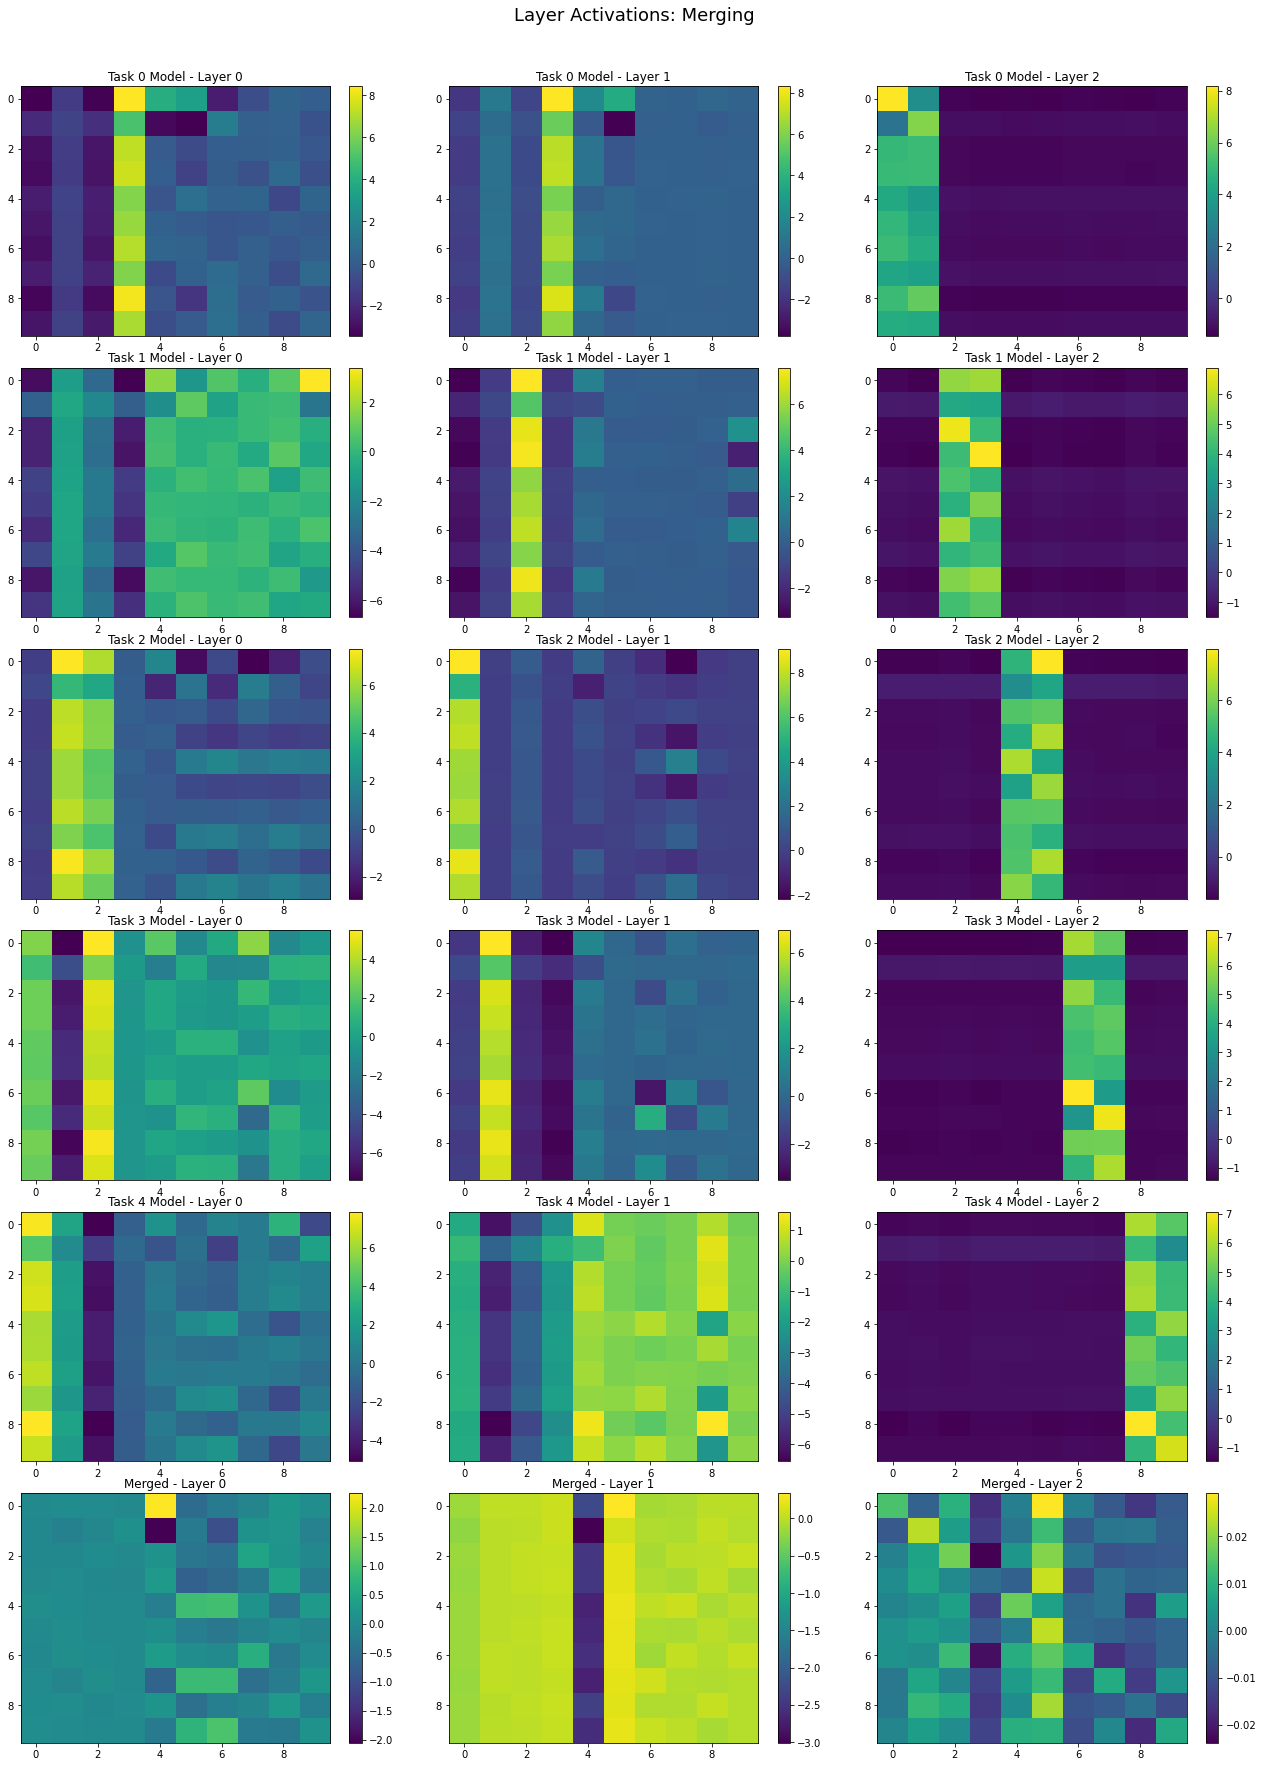
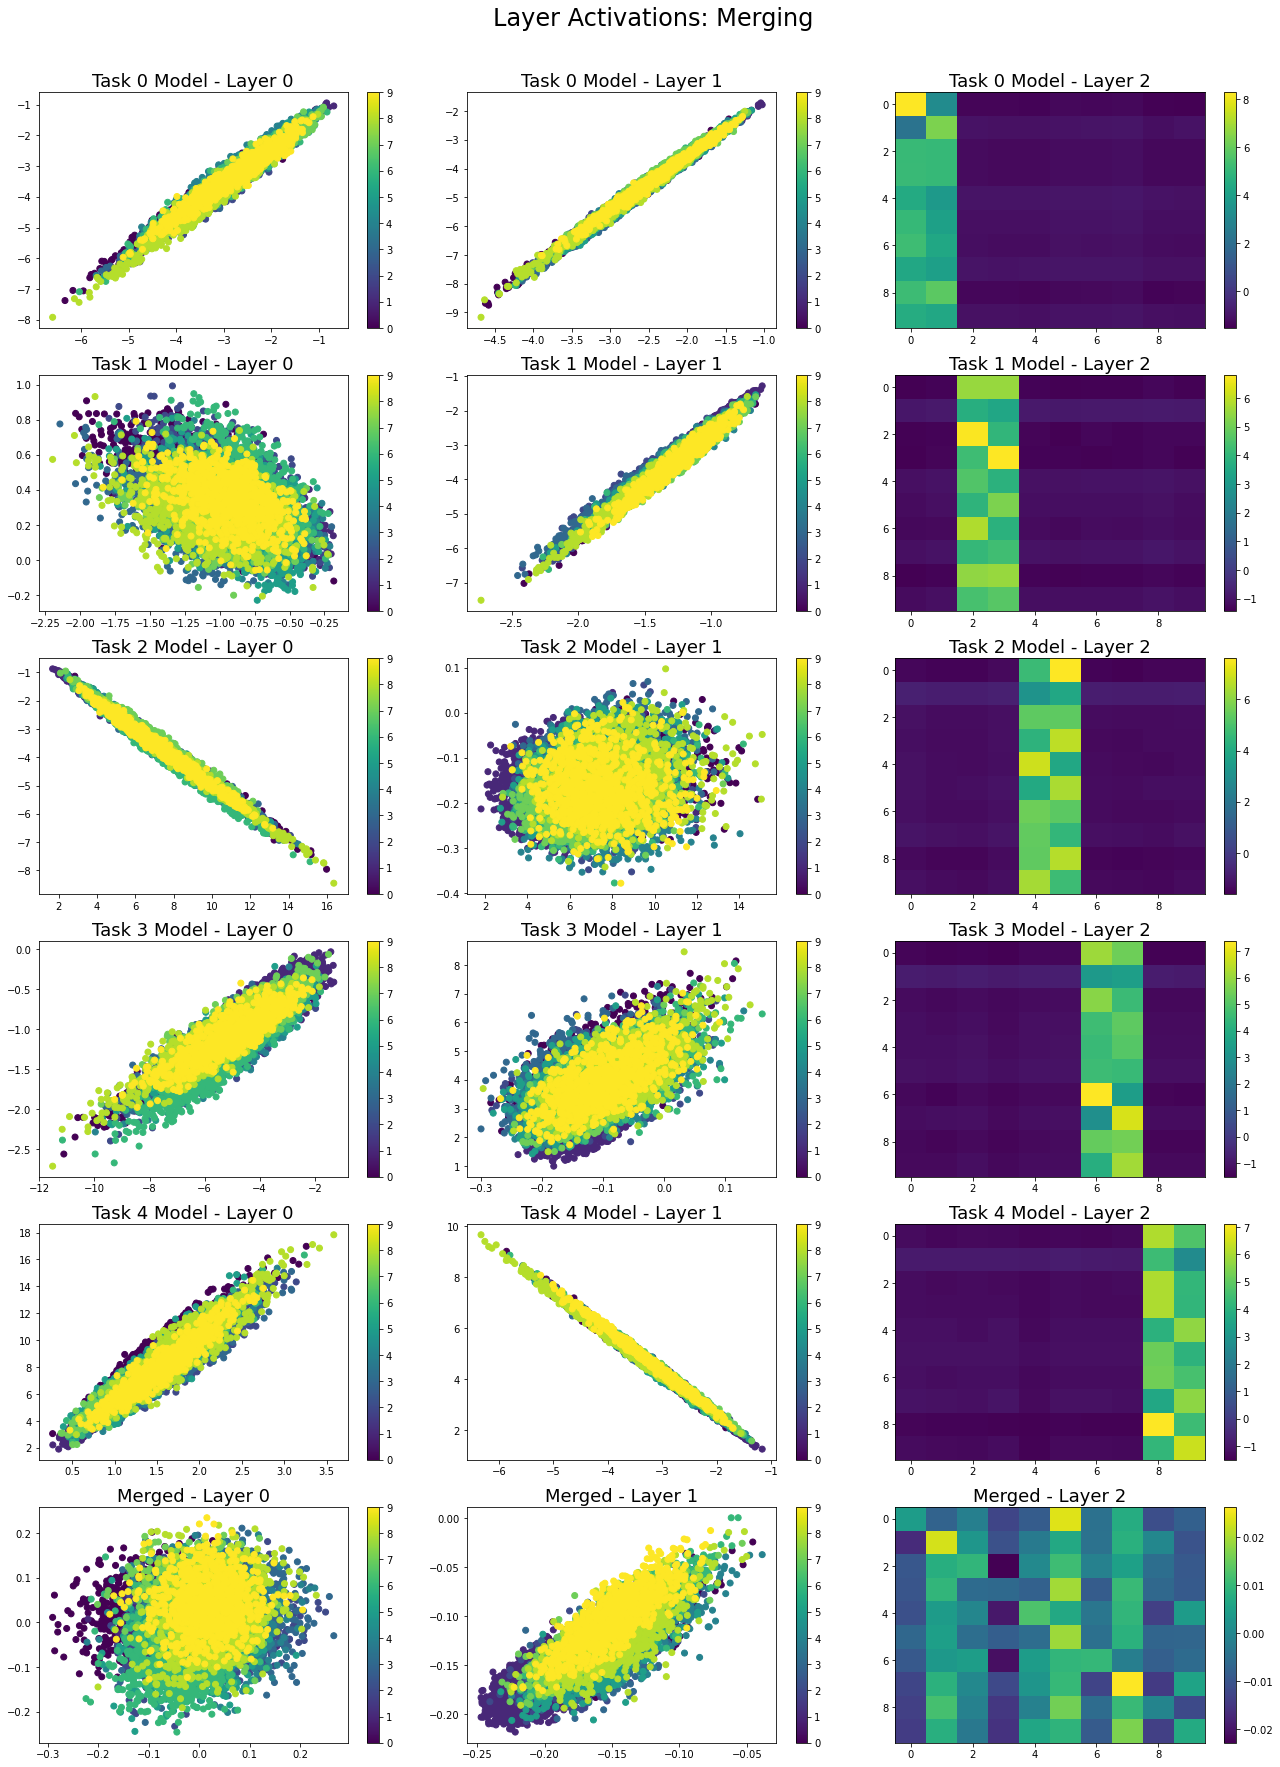
try scatter visualization for hidden state, try t-SNE instead of PCA

diff --git a/utils/nn.py b/utils/nn.py
@@ -4,6 +4,7 @@ import torch.optim as optim
 import numpy as np
 from torch.utils.data import DataLoader, TensorDataset
 from sklearn.decomposition import PCA
+from sklearn.manifold import TSNE
 import matplotlib.pyplot as plt
 
 device = torch.device("cuda" if torch.cuda.is_available() else "cpu")
@@ -156,12 +157,12 @@ class NeuronDeveloper():
         self.activations[subtitle] = [post - pre for post, pre in zip(self.activations[post_subtitle], self.activations[pre_subtitle])]
         return self.activations[subtitle]
 
-    def reduce(self, pca_components=None):
+    def reduce(self, reduction_method='tsne', components=[None, None, None]):
         # Get the number of layers from the first entry in activations
         num_layers = len(next(iter(self.activations.values())))
 
-        # Precompute PCA models for each layer except the last one
-        pca_models = [None] * num_layers
+        # Precompute models for each layer except the last one
+        reduction_models = [None] * num_layers
 
         # Pre-fetch all the activations for improved loop performance
         activations_values = {subtitle: [a.to(self.device) for a in activations] for subtitle, activations in self.activations.items()}
@@ -170,44 +171,44 @@ class NeuronDeveloper():
             # Concatenate activations across all subtitles for layer i
             layer_activations = [activation[i].cpu().numpy() for activation in activations_values.values()]
 
-            # Combine activations into a single array for PCA
+            # Combine activations into a single array for dimensionality reduction
             concat_activations = np.concatenate(layer_activations, axis=0)
 
-            if i == num_layers - 1:
-                # Skip PCA for the output layer (last layer)
-                for subtitle, activation in self.activations.items():
-                    if self.reduced_activations.get(subtitle) is None:
-                        self.reduced_activations[subtitle] = []
-
-                    # Append the original activation for the output layer
-                    self.reduced_activations[subtitle].append(activation[i].cpu().numpy())
-            else:
-                # Fit PCA model for this layer if pca_components is specified
-                if pca_components:
-                    if pca_models[i] is None:
-                        pca_models[i] = PCA(n_components=pca_components)
-                        pca_models[i].fit(concat_activations)
+            if components[i]:  # Only reduce if components are specified
+                if reduction_models[i] is None:
+                    if reduction_method == 'pca':
+                        reduction_models[i] = PCA(n_components=components[i])
+                        reduction_models[i].fit(concat_activations)
+                    elif reduction_method == 'tsne':
+                        # Note: t-SNE does not require a fit step, so we do fit_transform directly
+                        reduction_models[i] = TSNE(n_components=components[i], random_state=42)
+                        concat_activations = reduction_models[i].fit_transform(concat_activations)  # Apply t-SNE to the concatenated activations
                 
-                # Transform the activations for each subtitle
-                for subtitle, activation in self.activations.items():
-                    if self.reduced_activations.get(subtitle) is None:
-                        self.reduced_activations[subtitle] = []
+            # Transform the activations for each subtitle
+            for subtitle, activation in self.activations.items():
+                if self.reduced_activations.get(subtitle) is None:
+                    self.reduced_activations[subtitle] = []
 
-                    layer_activation = activation[i].cpu().numpy()
+                layer_activation = activation[i].cpu().numpy()
 
-                    if pca_components:
-                        # Apply PCA transformation if components are specified
-                        reduced_activation = pca_models[i].transform(layer_activation)
-                    else:
-                        # Otherwise, just append the original activation (no PCA)
-                        reduced_activation = layer_activation
+                if components[i]:
+                    if reduction_method == 'pca':
+                        reduced_activation = reduction_models[i].transform(layer_activation)
+                    elif reduction_method == 'tsne':
+                        # For t-SNE, the transformation happens on the full dataset, so you cannot apply it like PCA
+                        # Instead, the `concat_activations` are already reduced, so we split them back
+                        reduced_activation = concat_activations[:len(layer_activation)]
+                        concat_activations = concat_activations[len(layer_activation):]  # Update remaining activations
+                else:
+                    reduced_activation = layer_activation  # No dimensionality reduction
 
-                    # Append the reduced activation for the current layer
-                    self.reduced_activations[subtitle].append(reduced_activation)
+                # Append the reduced activation for the current layer
+                self.reduced_activations[subtitle].append(reduced_activation)
 
         return self.reduced_activations
+
     
-    def show(self, mean_pooling=False):
+    def render(self, plot_types: list = ['heatmap', 'heatmap', 'heatmap'], pooling_types=['mean', 'mean', 'mean']):
         num_layers = len(self.activations[list(self.activations.keys())[0]])
 
         fig, axs = plt.subplots(len(self.reduced_activations.keys()), 
@@ -215,30 +216,55 @@ class NeuronDeveloper():
                                 figsize=(num_layers * 6, 
                                          len(self.reduced_activations.keys()) * 4 + 1))
         
-        fig.suptitle(self.title, fontsize=18)
+        fig.suptitle(self.title, fontsize=24)
         fig.tight_layout(rect=[0, 0, 1, 0.96])
 
         for i in range(num_layers):
             if len(self.reduced_activations.keys()) == 1:
-                if mean_pooling:
-                    data = self.reduced_activations[list(self.reduced_activations.keys())[0]][i]
-                    pooled_data = data.reshape(10, 1000, 10).mean(axis=1)
+                # Do pooling if mean_pooling is True
+                data = self.reduced_activations[list(self.reduced_activations.keys())[0]][i]
+                pca_components = data.shape[1]
+                if pooling_types[i] == 'mean':
+                    pooled_data = data.reshape(-1, 1000, pca_components).mean(axis=1)
+                elif pooling_types[i] == 'none':
+                    pooled_data = data
+                
+                # Plot the figure according to the plot_types[i]
+                if plot_types[i] == 'heatmap':
                     im = axs[i].imshow(pooled_data, aspect='auto')
-                else:
-                    im = axs[i].imshow(self.reduced_activations[list(self.reduced_activations.keys())[0]][i], aspect='auto')
-                axs[i].set_title(list(self.reduced_activations.keys())[0] + f' - Layer {i}', fontsize=12)
+                elif plot_types[i] == 'scatter':
+                    if pca_components and pca_components != 2:
+                        print("Warning: pca_components is not 2. Scatter plot may not work as expected.")
+                    colors = np.repeat(np.arange(pooled_data.shape[0] // 1000), 1000)
+                    im = axs[i].scatter(pooled_data[:, 0], pooled_data[:, 1], c=colors, cmap='viridis')
+
+                axs[i].set_title(list(self.reduced_activations.keys())[0] + f' - Layer {i}', fontsize=18)
                 fig.colorbar(im, ax=axs[i])
             else:
                 for j, sub_title in enumerate(self.reduced_activations.keys()):
-                    if mean_pooling:
-                        data = self.reduced_activations[sub_title][i]
-                        pooled_data = data.reshape(10, 1000, 10).mean(axis=1)
+                    # Do pooling if mean_pooling is True
+                    data = self.reduced_activations[sub_title][i]
+                    pca_components = data.shape[1]
+                    if pooling_types[i] == 'mean':
+                        pooled_data = data.reshape(-1, 1000, pca_components).mean(axis=1)
+                    elif pooling_types[i] == 'none':
+                        pooled_data = data
+
+                    # Plot the figure according to the plot_types[i]
+                    if plot_types[i] == 'heatmap':
                         im = axs[j, i].imshow(pooled_data, aspect='auto')
-                    else:
-                        im = axs[j, i].imshow(self.reduced_activations[sub_title][i], aspect='auto')
-                    axs[j, i].set_title(sub_title + f' - Layer {i}', fontsize=12)
+                    elif plot_types[i] == 'scatter':
+                        if pca_components and pca_components != 2:
+                            print("Warning: pca_components is not 2. Scatter plot may not work as expected.")
+                        colors = np.repeat(np.arange(pooled_data.shape[0] // 1000), 1000)
+                        im = axs[j, i].scatter(pooled_data[:, 0], pooled_data[:, 1], c=colors, cmap='viridis')
+
+                    axs[j, i].set_title(sub_title + f' - Layer {i}', fontsize=18)
                     fig.colorbar(im, ax=axs[j, i])
 
+        # Adjust spacing between rows
+        plt.subplots_adjust(hspace=0.2)
+        
         self.fig = fig
 
     def save(self):

diff --git a/mnist_exp.py b/mnist_exp.py
@@ -197,12 +197,17 @@ def run_sleep_exp(acc_df: list, sleep_opts_update={}):
 
     acc_df = log_accuracy(f'SRC', 'Initial', acc_df, src_model, test_x, test_y, test_tasks, sleep_opts)
 
+
+    # # [Visual] Initialize the NeuronDeveloper for layer visualization
+    # neuron_developer = NeuronDeveloper(title=f'Layer Activations for Each Tasks: Before, After SRC, Synthetic, and Difference',
+    #                                     output_path=f'./png/layer_activations_src.png')
+    
     for task_id in range(num_tasks):
         print(f'Task {task_id}')
 
         # [Visual] Initialize the NeuronDeveloper for layer visualization
-        neuron_developer = NeuronDeveloper(title=f'Layer Activations for Task {task_id}: Before, After SRC, and Difference',
-                                           output_path=f'./png/layer_activations_task_{task_id}_before_after_src.png')
+        neuron_developer = NeuronDeveloper(title=f'Layer Activations for Task {task_id}: Before, After SRC, Synthetic, and Difference',
+                                            output_path=f'./png/layer_activations_task_{task_id}_src.png')
 
         task_indices = np.where(train_tasks == task_id)[0]
         task_train_x = train_x[task_indices[:5000]]  # Use the first 5000 samples for each task
@@ -214,7 +219,7 @@ def run_sleep_exp(acc_df: list, sleep_opts_update={}):
         # [Visual] Record activations before SRC for layer visualization
         neuron_developer.record(src_model, 
                                 sequential_train_x, 
-                                'Before SRC')
+                                f'Task {task_id}: Before SRC')
 
         print('Before SRC: ', evaluate_per_task(src_model, test_x, test_y, test_tasks, num_tasks))
         
@@ -235,7 +240,9 @@ def run_sleep_exp(acc_df: list, sleep_opts_update={}):
         acc_df = log_accuracy(f'SRC', 'Task ' + str(task_id) + ' After SRC', acc_df, src_model, test_x, test_y, test_tasks, sleep_opts)
 
         # [Visual] Record activations after SRC and calculate the difference
-        neuron_developer.record(src_model, sequential_train_x, 'After SRC')
+        neuron_developer.record(src_model, 
+                                sequential_train_x, 
+                                f'Task {task_id}: After SRC')
 
         # Create a synthetic model by using the model_before_training + (src_model - model_before_src)
         model_synthetic = SimpleNN(nn_size_template).to(device)
@@ -249,21 +256,38 @@ def run_sleep_exp(acc_df: list, sleep_opts_update={}):
         acc_df = log_accuracy(f'SRC', 'Task ' + str(task_id) + ' Synthetic SRC', acc_df, model_synthetic, test_x, test_y, test_tasks, sleep_opts)
 
         # [Visual] Record activations for the synthetic model
-        neuron_developer.record(model_synthetic, sequential_train_x, 'Synthetic SRC')
+        neuron_developer.record(model_synthetic, 
+                                sequential_train_x, 
+                                f'Task {task_id}: Synthetic SRC')
 
         # [Visual] Record the difference between the activations before and after SRC
-        neuron_developer.record_diff('After SRC', 'Before SRC', 'Difference')
+        neuron_developer.record_diff(f'Task {task_id}: After SRC', 
+                                     f'Task {task_id}: Before SRC', 
+                                     f'Task {task_id}: Difference')
 
         # [Visual] Reduce the dimensionality of the activations using PCA
-        neuron_developer.reduce(pca_components=10)
+        neuron_developer.reduce(components=[2, 2, None])
 
         # [Visual] Show and save the plot
-        neuron_developer.show(mean_pooling)
+        neuron_developer.render(plot_types=['scatter', 'scatter', 'heatmap'], 
+                            pooling_types=['none', 'none', 'mean'])
+        
+        # [Visual] Save the plot
         neuron_developer.save()
 
     acc_df = log_accuracy(f'SRC', 'After Training', acc_df, src_model, test_x, test_y, test_tasks, sleep_opts)
 
     print(evaluate_all(src_model, test_x, test_y))
+
+    # # [Visual] Reduce the dimensionality of the activations using PCA
+    # neuron_developer.reduce(components=[2, 2, None])
+
+    # # [Visual] Show and save the plot
+    # neuron_developer.render(plot_types=['scatter', 'scatter', 'heatmap'], 
+    #                       pooling_types=['none', 'none', 'mean'])
+    
+    # # [Visual] Save the plot
+    # neuron_developer.save()
 
     return acc_df
 
@@ -329,10 +353,11 @@ print(evaluate_all(merged_model, test_x, test_y))
 neuron_developer.record(merged_model, sequential_train_x, 'Merged')
 
 # [Visual] Reduce the dimensionality of the activations using PCA
-neuron_developer.reduce(pca_components=10)
+neuron_developer.reduce(components=[2, 2, None])
 
 # [Visual] Show and save the plot
-neuron_developer.show(mean_pooling)
+neuron_developer.render(pooling_types=['none', 'none', 'mean'], 
+                        plot_types=['scatter', 'scatter', 'heatmap'])
 neuron_developer.save()
 
 #%%
@@ -358,13 +383,14 @@ for task_id in range(num_tasks):
     acc_df = log_accuracy('Sequential', 'Task ' + str(task_id), acc_df, control_model, test_x, test_y, test_tasks)
 
     # [Visual] Record activations layer visualization
-    neuron_developer.record(control_model, sequential_train_x, 'Sequential')
+    neuron_developer.record(control_model, sequential_train_x, f'Task {task_id}: Sequential')
 
     # [Visual] Reduce the dimensionality of the activations using PCA
-    neuron_developer.reduce(pca_components=10)
+    neuron_developer.reduce(components=[2, 2, None])
 
     # [Visual] Show and save the plot
-    neuron_developer.show(mean_pooling)
+    neuron_developer.render(plot_types=['scatter', 'scatter', 'heatmap'],
+                            pooling_types=['none', 'none', 'mean'])
     neuron_developer.save()
 
 acc_df = log_accuracy('Sequential', 'After Training', acc_df, control_model, test_x, test_y, test_tasks)
@@ -392,10 +418,11 @@ print(evaluate_all(parallel_model, test_x, test_y))
 neuron_developer.record(parallel_model, sequential_train_x, 'Parallel')
 
 # [Visual] Reduce the dimensionality of the activations using PCA
-neuron_developer.reduce(pca_components=10)
+neuron_developer.reduce(components=[2, 2, None])
 
 # [Visual] Show and save the plot
-neuron_developer.show(mean_pooling)
+neuron_developer.render(plot_types=['scatter', 'scatter', 'heatmap'],
+                        pooling_types=['none', 'none', 'mean'])
 neuron_developer.save()
 
 #%%
